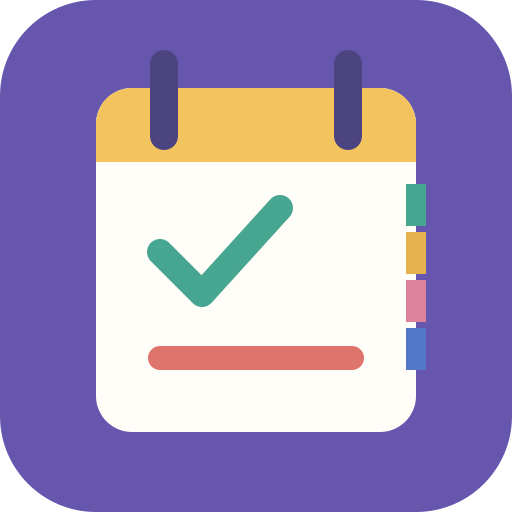
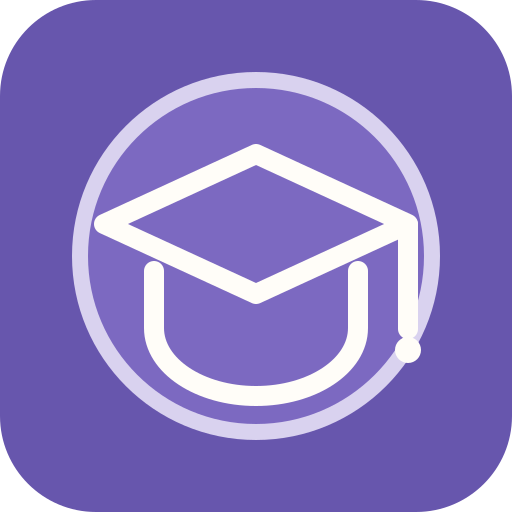
feat: rename app to agenda

diff --git a/src/components/OrganizationView.tsx b/src/components/OrganizationView.tsx
@@ -96,7 +96,7 @@ function PrintableDocument({ templateId, classroom, students, attendance, meetin
 
   return (
     <article className="print-document">
-      <header><div><span>Ημερολόγιο Τάξης</span><strong>{classroom.schoolName}</strong></div><div>{classroom.name}<small>{classroom.schoolYear}</small></div></header>
+      <header><div><span>agenda</span><strong>{classroom.schoolName}</strong></div><div>{classroom.name}<small>{classroom.schoolYear}</small></div></header>
       {templateId === 'absences' && <><h1>Δελτίο απουσιών</h1><p className="document-subtitle">Ημερομηνία: {formatDate(selectedDate)}</p><table><thead><tr><th>Μαθητής</th><th>Αιτία</th><th>Δικαιολόγηση</th><th>Σημείωση</th></tr></thead><tbody>{absentRows.map(({ record, student }) => <tr key={record.studentId}><td>{student?.fullName}</td><td>{record.absenceReason === 'illness' ? 'Ασθένεια' : 'Άλλο / δεν δηλώθηκε'}</td><td>{record.parentExcused ? 'Ναι' : 'Όχι'}</td><td>{record.note || '—'}</td></tr>)}</tbody></table>{absentRows.length === 0 && <p className="blank-message">Δεν έχουν καταχωριστεί απουσίες για αυτή την ημέρα.</p>}</>}
       {templateId === 'communication' && <><h1>Αρχείο επικοινωνίας με οικογένειες</h1><table><thead><tr><th>Ημερομηνία</th><th>Θέμα</th><th>Τύπος / μαθητής</th><th>Συμμετοχή</th></tr></thead><tbody>{meetings.map((meeting) => <tr key={meeting.id}><td>{formatDate(meeting.date)}</td><td>{meeting.title}</td><td>{meeting.type === 'group' ? 'Γενική' : students.find((student) => student.id === meeting.studentId)?.fullName || 'Ατομική'}</td><td>{meeting.attended !== null && meeting.expected !== null ? `${meeting.attended}/${meeting.expected}` : '—'}</td></tr>)}</tbody></table></>}
       {templateId === 'substitute' && <><h1>Πλάνο αναπλήρωσης</h1><div className="document-fields"><p><strong>Τμήμα</strong>{classroom.name}</p><p><strong>Εκπαιδευτικός</strong>{classroom.teacherName}</p><p><strong>Μαθητές</strong>{activeStudents.length}</p><p><strong>Ημερομηνία</strong>____ / ____ / ______</p></div><DocumentLines title="Πρόγραμμα ημέρας" /><DocumentLines title="Χρήσιμες πληροφορίες και προσαρμογές" /></>}

diff --git a/src/App.tsx b/src/App.tsx
@@ -1,5 +1,5 @@
 import { useEffect, useState } from 'react'
-import { BookMarked, BookOpen, CalendarCheck, CalendarRange, FolderKanban, History, MoreHorizontal, NotebookTabs, Settings, ShieldCheck, Users } from 'lucide-react'
+import { BookMarked, BookOpen, CalendarCheck, CalendarRange, FolderKanban, GraduationCap, History, MoreHorizontal, Settings, ShieldCheck, Users } from 'lucide-react'
 import './App.css'
 import { createEmptyRecord, createId, createStudentDetails, getDateKey, getStudentColor, loadAgenda, saveAgenda, type AttendanceRecord, type Student, type StudentEntry } from './agenda'
 import CoverView from './components/CoverView'
@@ -142,8 +142,8 @@ function App() {
       </div>
       <aside className="sidebar">
         <button type="button" className="brand" aria-label="Μετάβαση στο εξώφυλλο" onClick={() => setActiveView('cover')}>
-          <span className="brand-mark" aria-hidden="true"><NotebookTabs size={23} /></span>
-          <span><strong>Ημερολόγιο</strong><small>τάξης</small></span>
+          <span className="brand-mark" aria-hidden="true"><GraduationCap size={24} /></span>
+          <span><strong>agenda</strong></span>
         </button>
 
         <nav className="side-navigation" aria-label="Κύρια πλοήγηση">

diff --git a/index.html b/index.html
@@ -6,8 +6,8 @@
     <link rel="apple-touch-icon" href="%BASE_URL%apple-touch-icon.png" />
     <meta name="viewport" content="width=device-width, initial-scale=1.0" />
     <meta name="theme-color" content="#6756ad" />
-    <meta name="description" content="Η καθημερινή ατζέντα του εκπαιδευτικού για παρουσίες, μαθητές και βιβλιοδανεισμούς." />
-    <title>Ημερολόγιο Τάξης</title>
+    <meta name="description" content="Η ψηφιακή agenda του εκπαιδευτικού για παρουσίες, μαθητές και βιβλιοδανεισμούς." />
+    <title>agenda</title>
   </head>
   <body>
     <div id="root"></div>

diff --git a/src/components/CoverView.tsx b/src/components/CoverView.tsx
@@ -40,7 +40,7 @@ export default function CoverView({ classroom, studentCount, eventCount, onOpenA
         <div className="cover-content">
           <span className="cover-year">{classroom.schoolYear}</span>
           <div className="cover-seal" aria-hidden="true"><GraduationCap /></div>
-          <p className="cover-script">Ημερολόγιο Τάξης</p>
+          <p className="cover-script">agenda</p>
           <h1 id="cover-title">Ατζέντα<br />Εκπαιδευτικού</h1>
           <p className="cover-owner">{classroom.teacherName}</p>
           <p className="cover-school">{classroom.schoolName} · {classroom.name}</p>

diff --git a/src/App.css b/src/App.css
@@ -35,10 +35,9 @@
   flex: 0 0 42px;
   display: grid;
   place-items: center;
-  color: #173d38;
-  background: #f3c35e;
-  border-radius: 7px;
-  transform: rotate(-2deg);
+  color: #fffdf8;
+  background: #6756ad;
+  border-radius: 50%;
 }
 
 .brand > span:last-child {
@@ -2187,10 +2186,10 @@
 }
 
 .brand-mark {
-  color: #4c4381;
-  background: #f4c866;
-  border: 2px solid rgba(255, 255, 255, 0.86);
-  box-shadow: 0 4px 0 rgba(126, 103, 55, 0.12);
+  color: #fffdf8;
+  background: #6756ad;
+  border: 3px solid #d9d2ef;
+  box-shadow: 0 0 0 1px #8f83bc, 0 4px 0 rgba(72, 60, 108, 0.14);
 }
 
 .brand strong {

diff --git a/vite.config.ts b/vite.config.ts
@@ -10,9 +10,9 @@ export default defineConfig({
       registerType: 'autoUpdate',
       includeAssets: ['app-icon.svg', 'apple-touch-icon.png'],
       manifest: {
-        name: 'Ημερολόγιο Τάξης',
-        short_name: 'Ημερολόγιο',
-        description: 'Η καθημερινή ατζέντα του εκπαιδευτικού.',
+        name: 'agenda',
+        short_name: 'agenda',
+        description: 'Η ψηφιακή agenda του εκπαιδευτικού.',
         lang: 'el',
         start_url: './',
         scope: './',

diff --git a/README.md b/README.md
@@ -1,4 +1,4 @@
-# Ημερολόγιο Τάξης
+# agenda
 
 Ανεξάρτητη, responsive PWA ατζέντα εκπαιδευτικού για κινητό, tablet και υπολογιστή.
 
